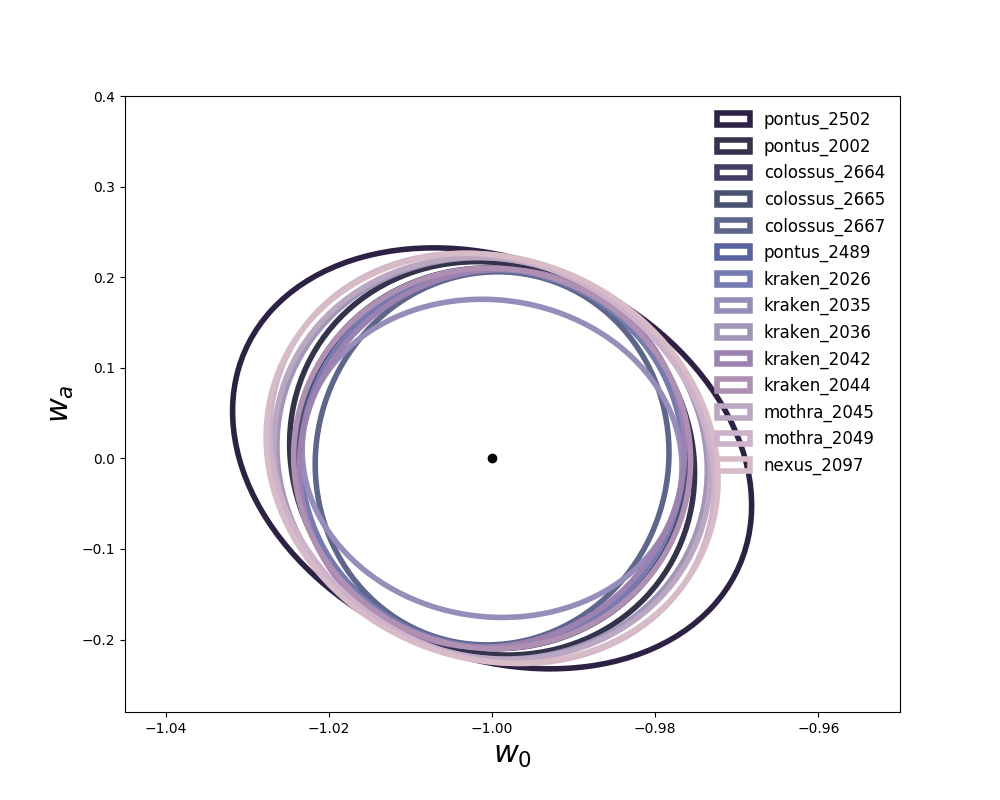
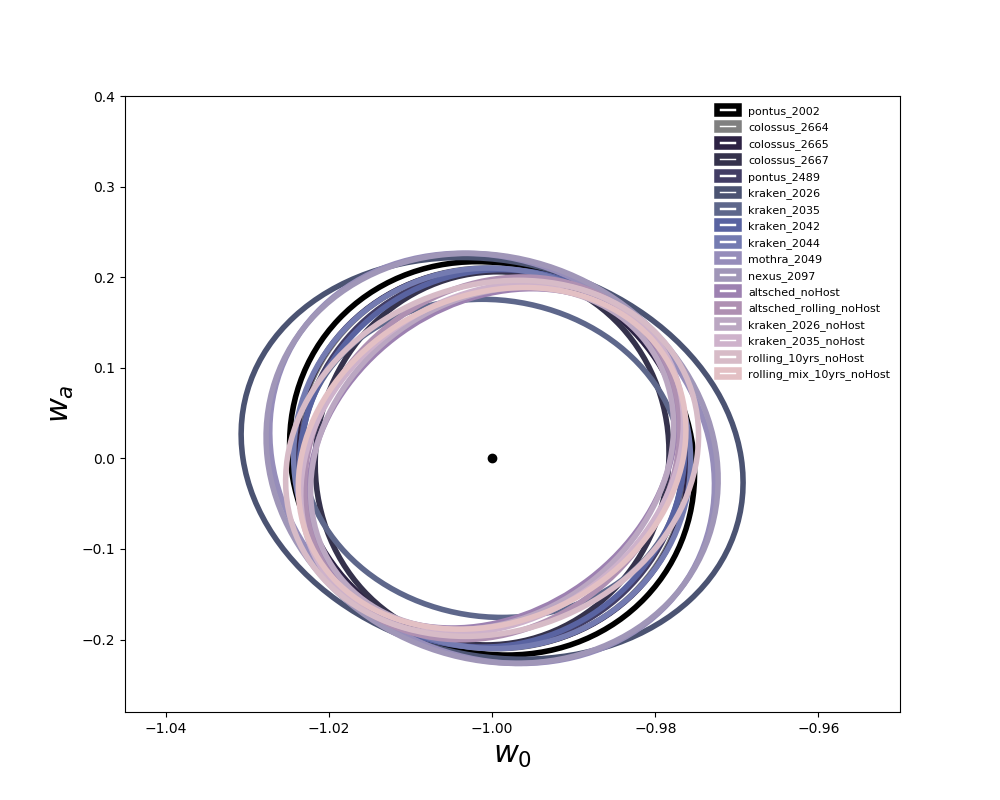
completing w0wa part

Changed region(s): [[0.217, 0.125, 0.899, 0.8438], [0.651, 0.9062, 0.682, 0.9375]]

diff --git a/writeup/SN_Cadence_Note/sn_tex/w0wa.tex b/writeup/SN_Cadence_Note/sn_tex/w0wa.tex
@@ -2,24 +2,35 @@
 
 \myparagraph{Method}
 
-In order to assess the impact of the cadence on the cosmological analysis possible with supernovae, we compute the Dark Energy Task force figure of merit \cite{2006astro.ph..9591A} in the dark energy parameters $w_0-w_a,$ for a few scenarios. The supernova sample is simulated using (\stretch, \sncolor) distributions estimated from \cite{2016ApJ...822L..35S} (High-z G10 parameters) and production rates from  \cite{2008ApJ...682..262D}. 
+In order to assess the impact of the cadence on the cosmological analysis possible with supernovae, we compute the Dark Energy Task force figure of merit \cite{2006astro.ph..9591A} in the dark energy parameters $w_0-w_a,$ for a few scenarios. The supernova sample is simulated using (\strech, \sncolor) distributions estimated from \cite{2016ApJ...822L..35S} (High-z G10 parameters) and production rates from  \cite{2008ApJ...682..262D}.
+
 In the first instance, the supernova sample is simulated following roughly the same prescription as that outlined in the recent Science Requirements Document \cite{2018arXiv180901669T}, with small changes to the host redshift selection. For the SRD we adjusted the survey size simulated to ensure roughly 112 000 SNe after host selection cuts from a 4MOST-like ground based telescope. This is the largest determinant of the final size, and so in order to test for differences in the survey strategy we initially doubled the survey size simulated, and then tested a few cadences without requiring any spectrosopic host redshift. This was to ensure that the host-$z$ follow up was not the most important characteristic.
 In addition, we imposed a more restrictive cut on the fitted colour in the SAL2T fit from $\sigma(c) < 0.08$ to $\sigma(c) < 0.05.$ Insodoing we are forcing that the supernovae that survive are of higher quality than in the DESC SRD.
-Finally, we include only statistical errors: for speed of computation we have neglected the astrophysical systematics; this will be relaxed in future versions
 
-\myparagraph{Results}
+In order to test more strongly the impact of the wide field cadence on the overall cosmology, we ran simulations including \textit{only the WFD survey} in addition to a low-$z$ (e.g. Foundation-like) data set. We compared the cosmology results from the WFD+Foundation surveys for the {\tt kraken\_2026, kraken\_2035} and {\tt altsched, altsched\_rolling} cadences. Finally we show the results with and without spectroscopic host redshift selection for the baseline {\tt kraken\_2026} survey.
+
+We have included only statistical errors: for speed of computation we have neglected the astrophysical systematics. This will be relaxed in future versions.
+
 
 \begin{figure}
   \begin{center}
   \subfigure[w0-wa ellipses]{\label{fig:w0wa}\includegraphics[width=0.7\textwidth]{w0wa/FM_plot_cadence_updated.png}}
     \subfigure[FoM vs observing strategy]{\label{fig:snfom}\includegraphics[width=0.7\textwidth]{w0wa/FoM_cadence_updated.png}}
-    \caption{Cosmology constraints across cadence types: the ellipses in the $w_0-w_a$ plane (a) and the dark energy figure of merit is shown (b) are shown. \textbf{[RH: plot to be changed once NSERC comes back online 10/18]}}
+    \caption{Cosmology constraints across cadence types: the ellipses in the $w_0-w_a$ plane (a) and the dark energy figure of merit is shown (b) are shown. }
     \end{center}
 \end{figure}
+\myparagraph{Results}
+The largest difference in the Figure of Merit (Fig. \ref{fig:w0wa}) we find is a factor of two between the highest FoM (kraken\_2035) and the lowest FoM (pontus\_2502) if both WDF and DDF surveys are taken into account. The lowest-performing strategy has two alternating bands in declination, switching in alternate years, which is expect to perform poorly. The fact kraken\_2035 is performing better compared to other observing strategies may be explained by the higher number of DD fields observed (9 whereas all other strategies considered 5 fields).
 
-In the figure above, we see that the largest difference in the Figure of Merit \ref{fig:w0wa} we find is a factor of two between the highest FoM (kraken\_2035) and the lowest FoM (pontus\_2502). The lowest-performing strategy has two alternating bands in declination, switching in alternate years, which is expect to perform poorly. 
+\altsched~ and kraken\_2026 show highest FoMs in WFD-only scenarios (Fig. \ref{fig:snfom}) followed by rolling\_mix, kraken\_2035 , \altsched\_rolling and rolling observing strategies. One may observe that these cadences exhibit the highest FoMs as the following classification shows:
+\begin{itemize}
+\item{500 $\leq$ FoM}: kraken\_2035, \altsched, kraken\_226, rolling\_mix, kraken\_2035 , \altsched\_rolling and rolling ;
+\item{400 $\leq$ FoM $\leq$ 500}: pontus\_2489, kraken\_2042, colossus\_2665, colossus\_2664, kraken\_2044, pontus\_2002 ;
+\item{FoM $\leq$ 400}: nexus\_2049, nexus\_2097, kraken\_2026.
 
-In order to test more strongly the impact of the wide field cadence on the overall cosmology, we ran simulations including \textit{only the WFD survey} in addition to a low-$z$ (e.g. Foundation-like) data set. We compared the cosmology results from the WFD+Foundation surveys for the {\tt kraken\_2026, kraken\_2035} and {\tt altsched, altsched\_rolling} cadences. Finally we show the results with and without spectroscopic host redshift selection for the baseline {\tt kraken\_2026} survey. \textbf{[RH: these cosmosis runs will proceed on NSERC on 10/18 after cori comes back up]}
+\end{itemize}
+
+
 
 \myparagraph{Conclusion}
 
